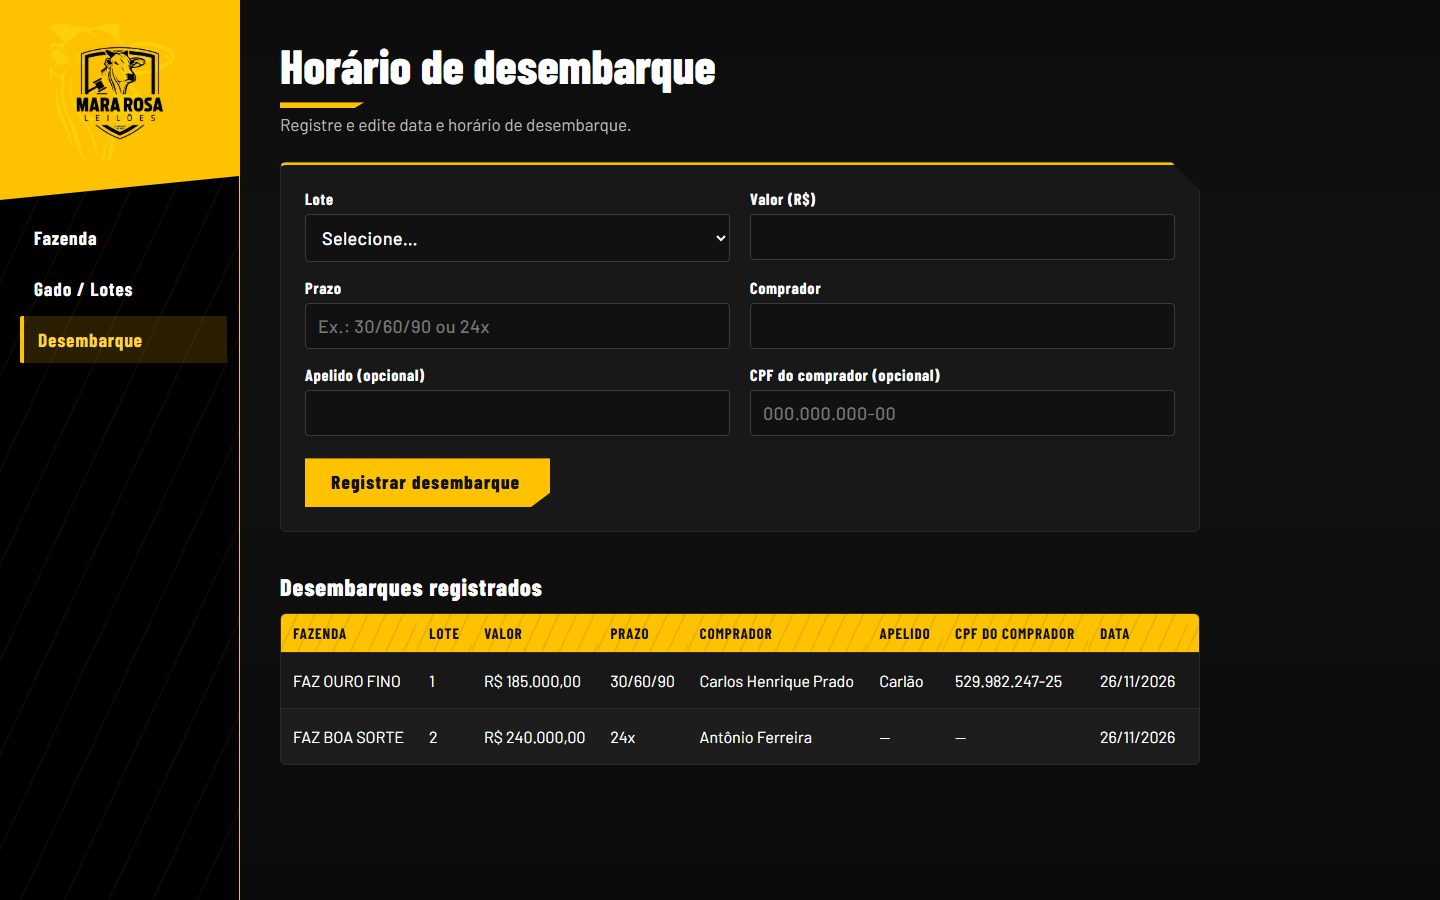
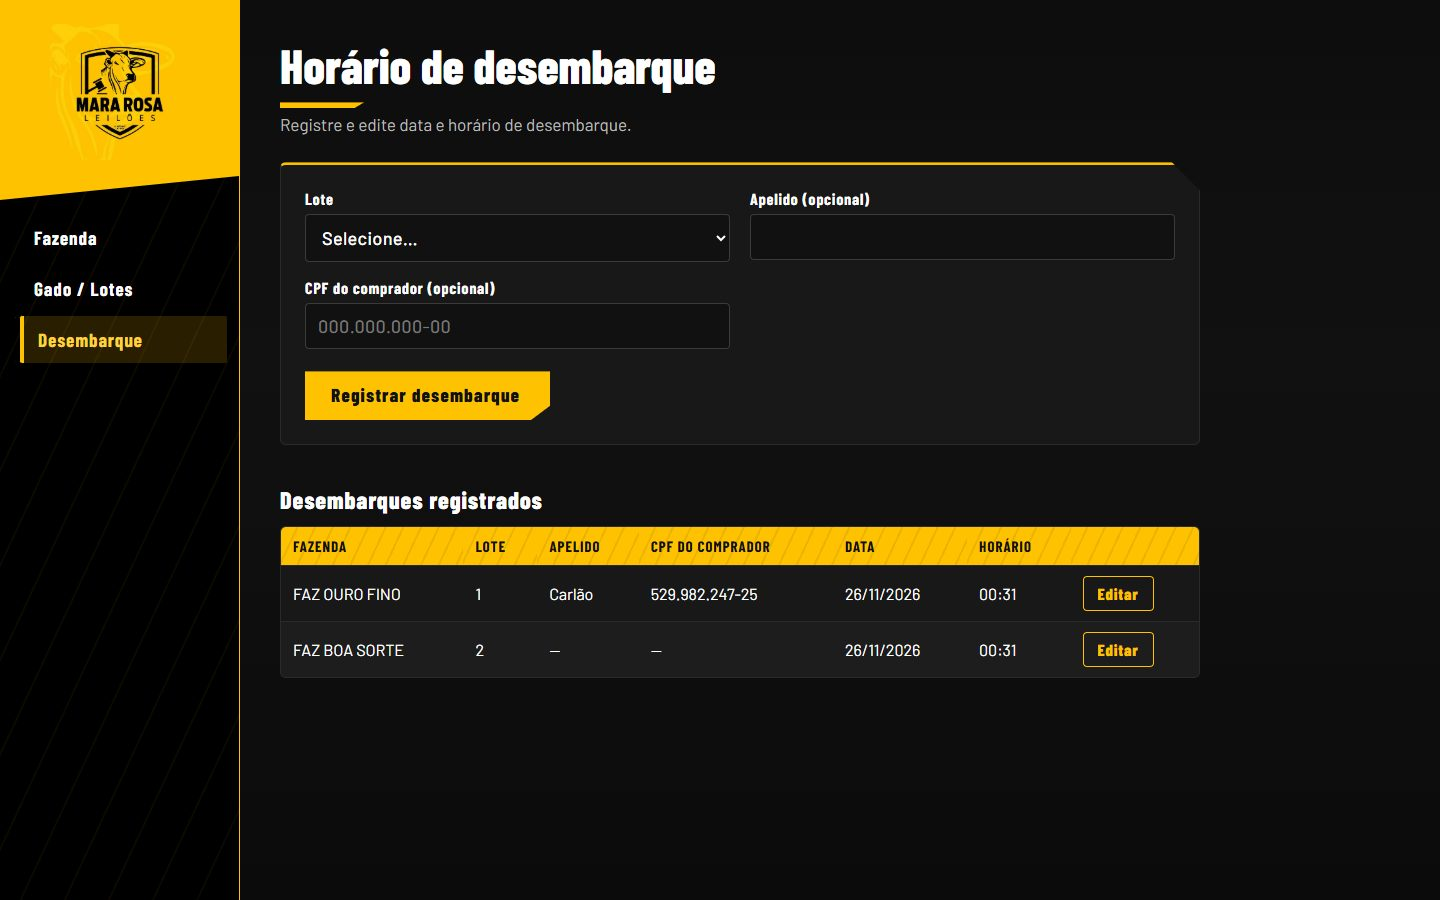
refactor: remover valor, prazo e comprador do desembarque
- O desembarque fica com lote, apelido e CPF do comprador (opcionais),
  além da data e do horário automáticos.
- Print do desembarque atualizado em docs/evidencias/.

diff --git a/app/painel/UnloadingForm.js b/app/painel/UnloadingForm.js
@@ -3,7 +3,7 @@
 import { useState } from "react";
 import { maskCpf, isValidCpf } from "../../lib/cpf";
 
-const EMPTY = { lotId: "", value: "", term: "", buyerName: "", buyerNickname: "", buyerCpf: "" };
+const EMPTY = { lotId: "", buyerNickname: "", buyerCpf: "" };
 
 // Data e horário locais do momento do registro (YYYY-MM-DD e HH:MM)
 function nowLocal() {
@@ -13,11 +13,6 @@ function nowLocal() {
     date: `${d.getFullYear()}-${pad(d.getMonth() + 1)}-${pad(d.getDate())}`,
     time: `${pad(d.getHours())}:${pad(d.getMinutes())}`,
   };
-}
-
-function formatBRL(value) {
-  if (value === "" || value == null) return "—";
-  return Number(value).toLocaleString("pt-BR", { style: "currency", currency: "BRL" });
 }
 
 function formatDate(iso) {
@@ -86,20 +81,6 @@ export default function UnloadingForm({ records, lots = [], onAdd, onUpdate }) {
             )}
           </div>
           <div className="fld">
-            <label htmlFor="unl-value">Valor (R$)</label>
-            <input id="unl-value" type="number" min="0.01" step="0.01" inputMode="decimal" required
-              value={form.value} onChange={(e) => set("value", e.target.value)} />
-          </div>
-          <div className="fld">
-            <label htmlFor="unl-term">Prazo</label>
-            <input id="unl-term" required placeholder="Ex.: 30/60/90 ou 24x"
-              value={form.term} onChange={(e) => set("term", e.target.value)} />
-          </div>
-          <div className="fld">
-            <label htmlFor="unl-buyer-name">Comprador</label>
-            <input id="unl-buyer-name" required value={form.buyerName} onChange={(e) => set("buyerName", e.target.value)} />
-          </div>
-          <div className="fld">
             <label htmlFor="unl-buyer-nick">Apelido (opcional)</label>
             <input id="unl-buyer-nick" value={form.buyerNickname} onChange={(e) => set("buyerNickname", e.target.value)} />
           </div>
@@ -122,7 +103,7 @@ export default function UnloadingForm({ records, lots = [], onAdd, onUpdate }) {
           <table>
             <thead>
               <tr>
-                <th>Fazenda</th><th>Lote</th><th>Valor</th><th>Prazo</th><th>Comprador</th><th>Apelido</th><th>CPF do comprador</th>
+                <th>Fazenda</th><th>Lote</th><th>Apelido</th><th>CPF do comprador</th>
                 <th>Data</th><th>Horário</th><th><span className="sr">Ações</span></th>
               </tr>
             </thead>
@@ -132,9 +113,6 @@ export default function UnloadingForm({ records, lots = [], onAdd, onUpdate }) {
                   <tr key={r.id}>
                     <td>{r.farmName}</td>
                     <td>{r.lot}</td>
-                    <td>{formatBRL(r.value)}</td>
-                    <td>{r.term}</td>
-                    <td>{r.buyerName}</td>
                     <td>{r.buyerNickname || "—"}</td>
                     <td>{r.buyerCpf || "—"}</td>
                     <td>
@@ -155,9 +133,6 @@ export default function UnloadingForm({ records, lots = [], onAdd, onUpdate }) {
                   <tr key={r.id}>
                     <td>{r.farmName}</td>
                     <td>{r.lot}</td>
-                    <td>{formatBRL(r.value)}</td>
-                    <td>{r.term}</td>
-                    <td>{r.buyerName}</td>
                     <td>{r.buyerNickname || "—"}</td>
                     <td>{r.buyerCpf || "—"}</td>
                     <td>{formatDate(r.date)}</td>

diff --git a/app/globals.css b/app/globals.css
@@ -139,7 +139,7 @@ button:focus-visible{outline:3px solid var(--w);outline-offset:3px}
 
 /* Tabelas */
 .dash .tbl-lots table{min-width:640px}
-.dash .tbl-unl table{min-width:1080px}
+.dash .tbl-unl table{min-width:760px}
 .dash .tbl{overflow-x:auto;border:1px solid #2a2a2a;border-radius:6px;background:#181818}
 .dash table{width:100%;border-collapse:collapse;font-size:16px}
 .dash th{font:700 15px var(--font-display),sans-serif;letter-spacing:.06em;text-transform:uppercase;text-align:left;color:var(--k);background:var(--y) repeating-linear-gradient(115deg,transparent 0 14px,rgba(0,0,0,.07) 14px 16px);padding:10px 12px;white-space:nowrap}
